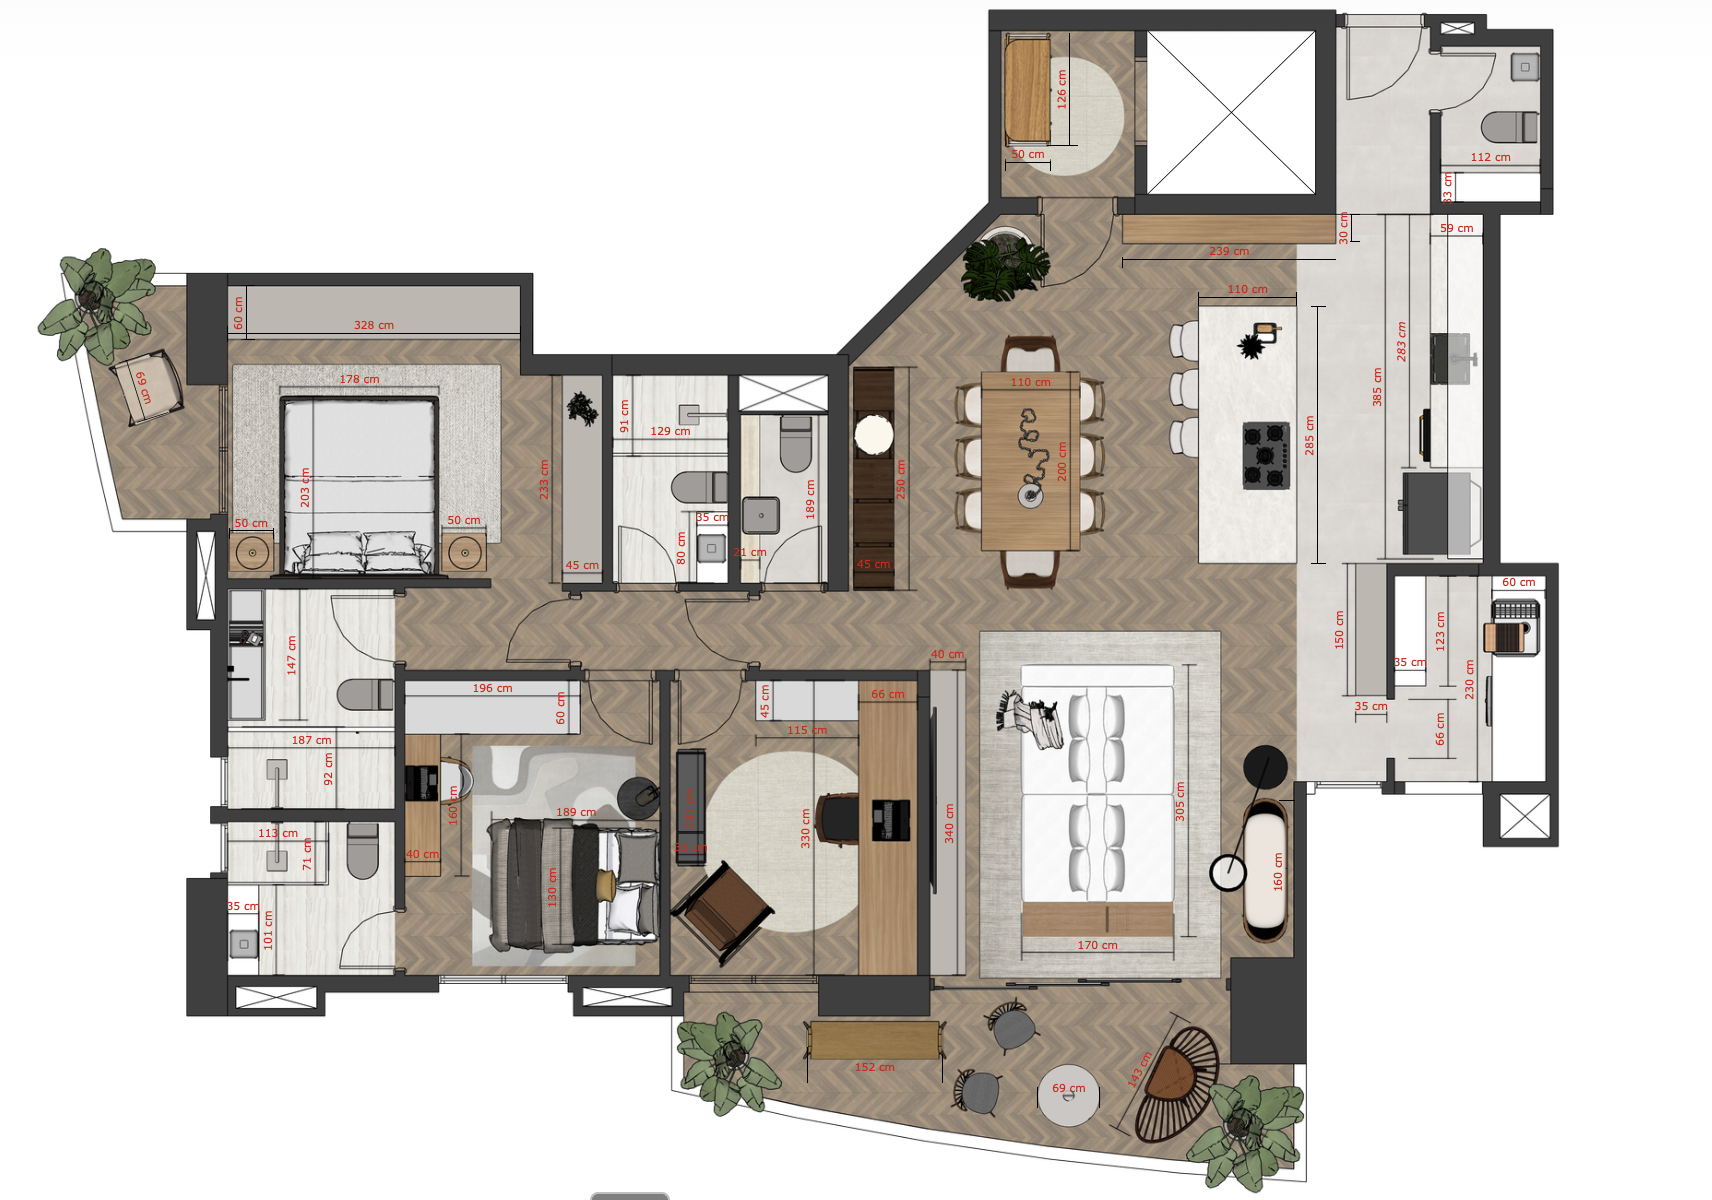
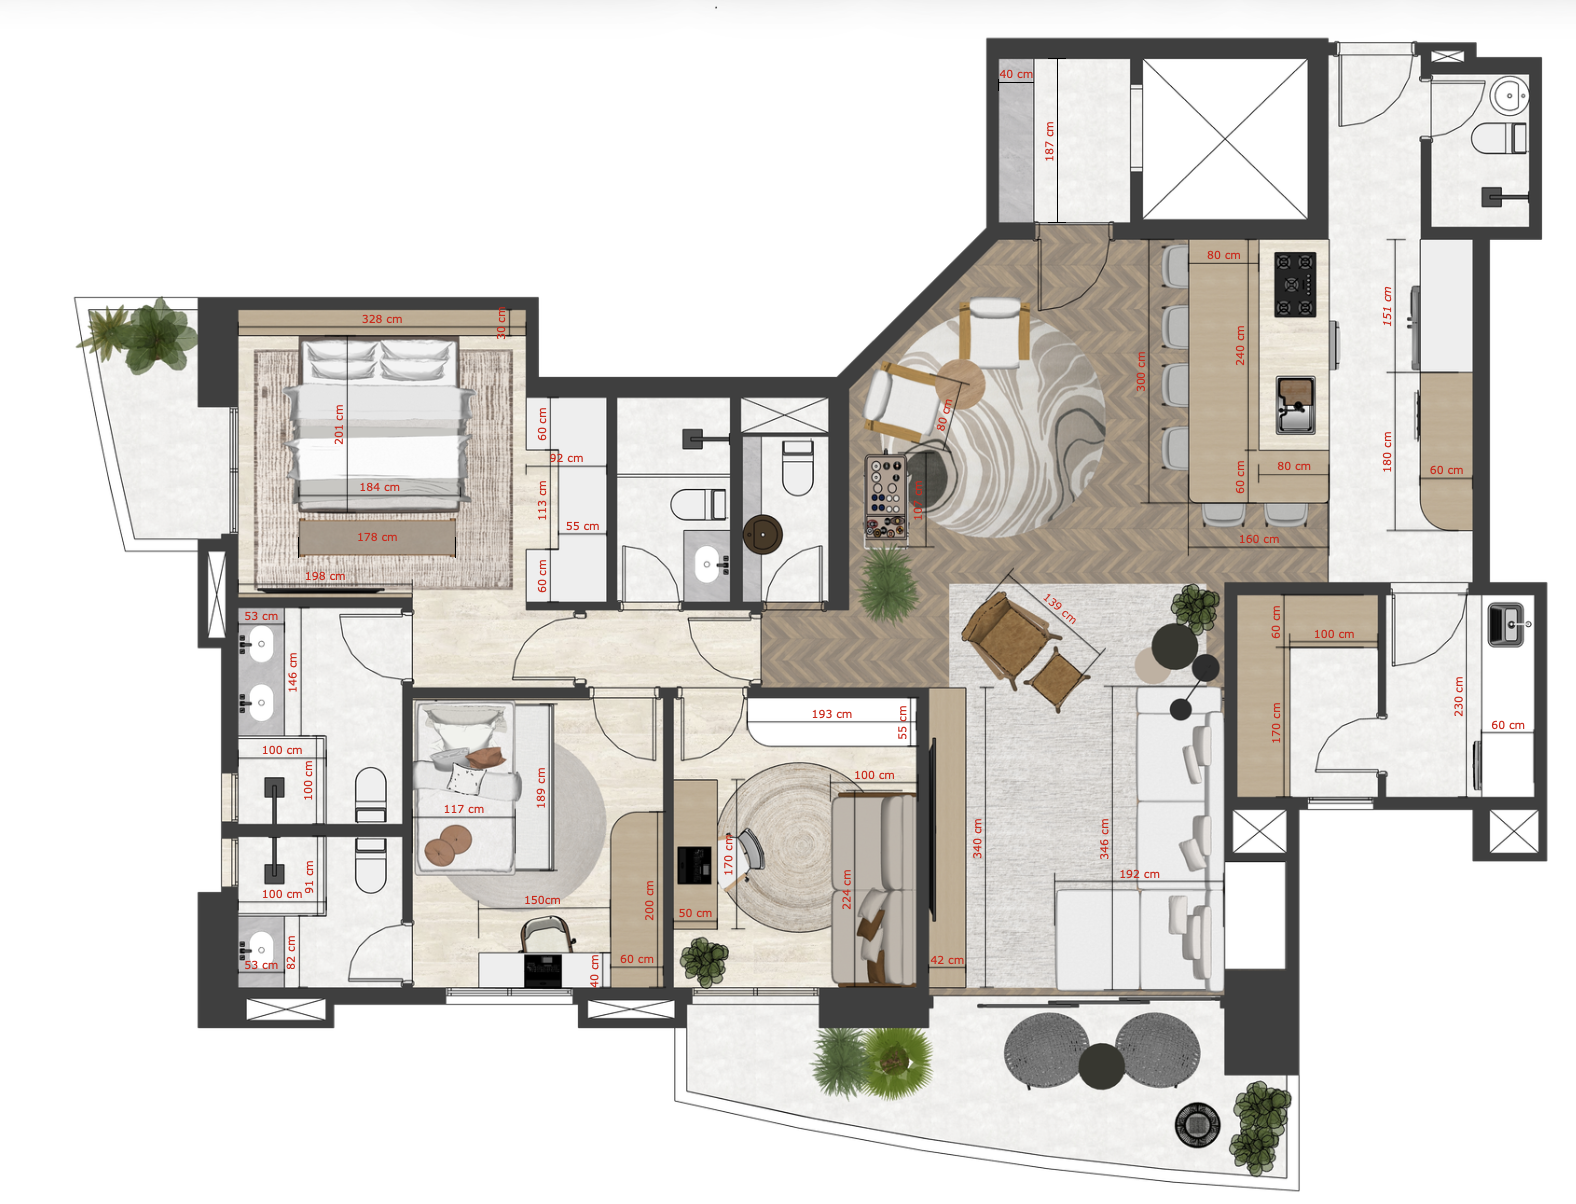
Atualiza Layout 2 e adiciona Layout 3

diff --git a/anotacoes.html b/anotacoes.html
@@ -388,6 +388,7 @@
   <div class="layout-switcher">
     <button class="layout-btn active" onclick="switchLayout(1, this)">Layout 1</button>
     <button class="layout-btn" onclick="switchLayout(2, this)">Layout 2</button>
+    <button class="layout-btn" onclick="switchLayout(3, this)">Layout 3</button>
   </div>
   <button id="export-btn" onclick="exportAnnotations()">⬇ Exportar JSON</button>
 </div>

diff --git a/index.html b/index.html
@@ -388,6 +388,7 @@
   <div class="layout-switcher">
     <button class="layout-btn active" onclick="switchLayout(1, this)">Layout 1</button>
     <button class="layout-btn" onclick="switchLayout(2, this)">Layout 2</button>
+    <button class="layout-btn" onclick="switchLayout(3, this)">Layout 3</button>
   </div>
   <button id="export-btn" onclick="exportAnnotations()">⬇ Exportar JSON</button>
 </div>
